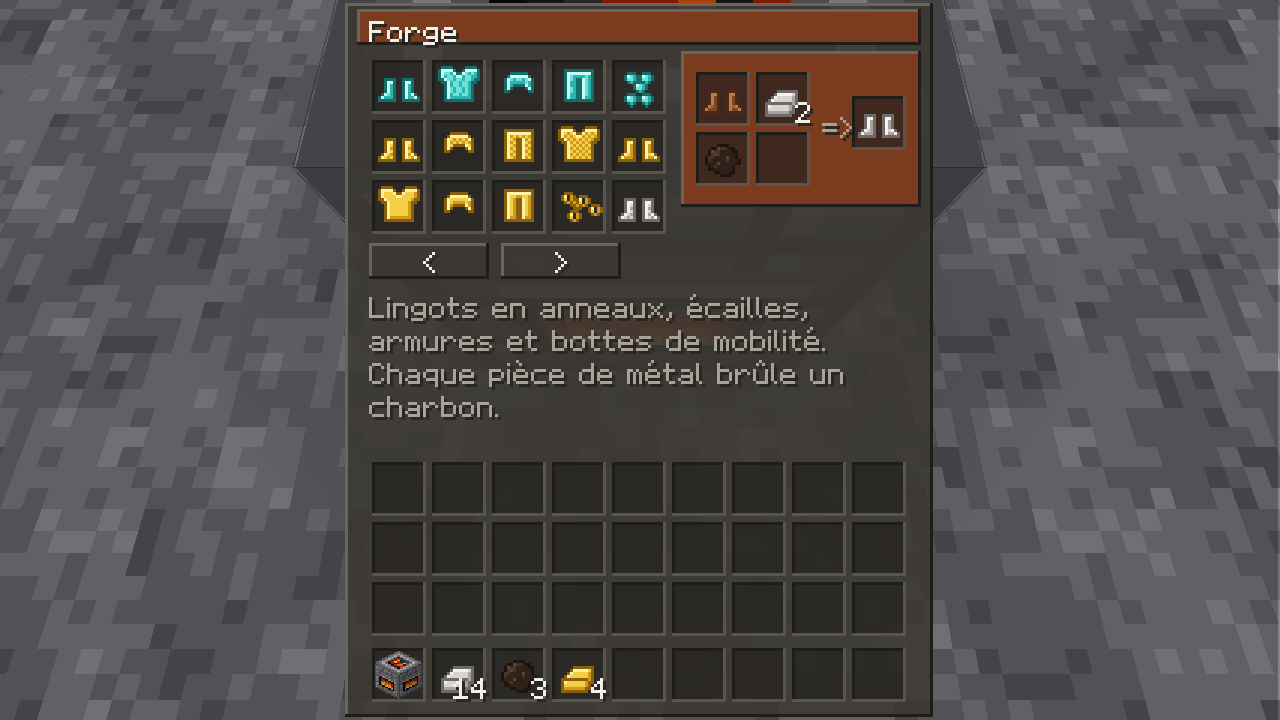
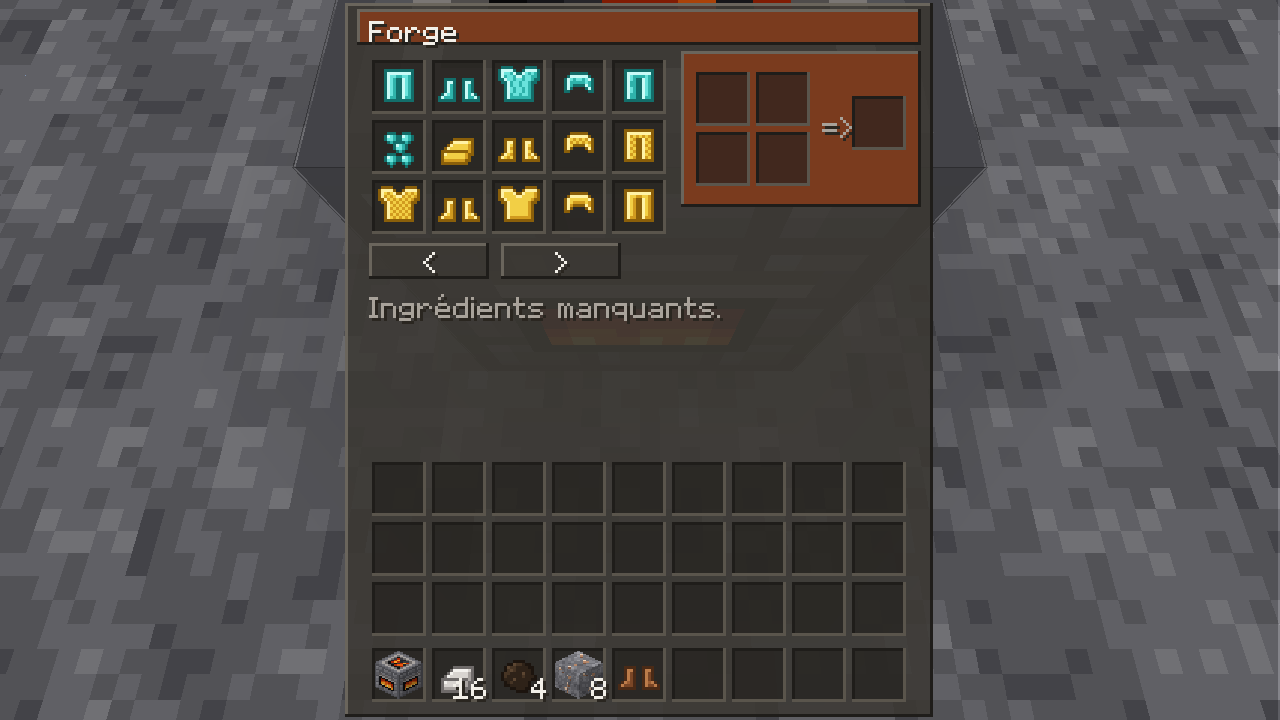
docs(stations): review fixes for J6 (layouts by name, forge ingots, old worlds, help, wiki), new bench captures
Claude-Session: https://claude.ai/code/session_01RznEhak9j1HUkMPKL5bSvG

diff --git a/docs/explications/stations.md b/docs/explications/stations.md
@@ -10,7 +10,7 @@ Chaque matériau se travaille à **sa** station : le bois et les outils à l'ét
 | Fours | entité de bloc `furnace` | cuisson et fonte, avec combustible |
 | Tailleur de pierre | `Stonecutter` | variantes de pierre |
 | Enclume | `Anvil` | améliorations, réparations |
-| Forge | `Bench("strata:forge")` | anneaux, écailles, armures de métal et de diamant, bottes de mobilité |
+| Forge | `Bench("strata:forge")` | lingots (depuis le minerai), anneaux, écailles, armures de métal et de diamant, bottes de mobilité |
 | Tannerie | `Bench("strata:tannery")` | cuir (provisoire), armure de cuir |
 | Métier à tisser | `Bench("strata:loom")` | tissu, laine (provisoire), vêtements de tissu, cape de laine |
 | Joaillier | `Bench("strata:jeweller")` | anneaux, amulettes, ceintures |
@@ -43,21 +43,26 @@ Choisir une recette envoie `ChooseCut` au serveur, qui pose les ingrédients de 
 
 La forge « brûle » du charbon sans mécanique nouvelle : le charbon est **un ingrédient comme un autre** (le tag `strata:coals`, charbon ou charbon de bois), un par pièce de métal. Pas de jauge de chaleur ni d'entité de bloc : tout est dans les recettes, réglable par pack. Les écailles de diamant se taillent sans feu.
 
+Elle fond aussi le minerai : 4 minerais et 1 charbon donnent **5 lingots**, tout de suite. C'est un quart de plus qu'au four, mais plus de charbon (1 pour 5 lingots au lieu de 1 pour 8) et à la main : le four reste la voie qu'on automatise.
+
 ### Un écran par station
 
 Chaque établi a son allure, décrite dans le pack :
 
 ```ron
 // benches/forge.ron
-Bench(layout: Forge, accent: "#7a3b1e")
+Bench(layout: "forge", accent: "#7a3b1e")
 ```
 
-- `layout` choisit une **disposition** parmi celles que l'écran d'inventaire connaît (`Plain`, `Jeweller`, `Forge`, `Tannery`, `Loom`). Dans `assets/ui/inventory.ron`, chacune est un groupe `bench_layout_<nom>` qui place autrement les mêmes éléments : cases (2×2, en ligne pour la tannerie comme des peaux sur un séchoir, en colonne pour le métier comme une chaîne de fils), liste, résultat, aide.
+- `layout` nomme une **disposition** : le groupe `bench_layout_<layout>` de `assets/ui/inventory.ron` (aujourd'hui `plain`, `jeweller`, `forge`, `tannery`, `loom`). Chacun place autrement les mêmes éléments : cases (2×2, en ligne pour la tannerie comme des peaux sur un séchoir, en colonne pour le métier comme une chaîne de fils), liste, résultat, aide. Au chargement, le client vérifie que le groupe existe ; sinon l'établi prend `plain` et une erreur de pack le signale.
+- **Les identifiants doivent être les mêmes dans toutes les dispositions** (`bench`, `bench_choices`, `bench_result`, `bench_note`, `bench_earlier`, `bench_later`, `bench_title`, bandes `bench_band_*`) : le modèle de l'écran répond par identifiant, sans savoir quelle disposition est affichée. Seules les positions changent ; la liste fait toujours 5 × 3 cases (un test le vérifie).
+- Un fichier `benches/` qui ne nomme l'établi d'aucun bloc est une erreur de pack ; `remove.ron` peut retirer une entrée `benches`.
 - `accent` colore les **bandes** (`Band`, un nouvel élément d'interface) : le bandeau du titre et la surface de travail sous les cases.
-- L'aide sous la liste est la traduction `bench-<espace>-<nom>` (sinon l'aide générale).
+- L'aide sous la liste est la traduction `bench-<espace>-<nom>` suivie de la phrase commune `ui-bench-choose` (sinon l'aide générale `ui-bench-help`).
+- L'infobulle de tout objet fait à un établi dit « Fabriqué à : Forge » (`gear-made-at`).
 - Sans fichier `benches/`, un établi prend la disposition `Plain` et les couleurs du thème : un pack peut ajouter un établi avec seulement un bloc et des recettes.
 
-La liste montre 5 × 3 recettes dans toutes les dispositions ; au-delà (la forge en a 29), les boutons « < » « > » et la molette la font défiler par rangées. À la manette, la croix passe d'un élément à l'autre comme partout.
+La liste montre 5 × 3 recettes dans toutes les dispositions ; au-delà (la forge en a 32), les boutons « < » « > » et la molette la font défiler par rangées. À la manette, la croix passe d'un élément à l'autre comme partout.
 
 ```mermaid
 flowchart LR
@@ -73,6 +78,8 @@ flowchart LR
 
 À l'établi : forge = 3 lingots de fer sur un four entouré de 5 galets ; tannerie = bâtons en cadre autour d'une boue sur 3 planches ; métier à tisser = 3 bâtons sur 3 fibres sur 3 planches. La tannerie et le métier sont connus dès le départ (le cuir et le tissu sont les premières armures) ; la forge s'apprend.
 
+**Anciens mondes** : une sauvegarde qui connaissait une recette de grille déplacée sur un établi sous le même nom (une armure de fer…) reçoit une fois le bloc de cet établi et apprend sa recette (`Game::adopt_moved_recipes`), pour ne pas perdre le moyen de la fabriquer.
+
 Le cuir et la laine restent **provisoires** (fibres et boue, fibres seules) jusqu'aux animaux de la v0.4 : leurs recettes sont déjà à la bonne station, il suffira d'en changer les ingrédients pour des peaux et de la laine de mouton.
 
 ## Dans le code
@@ -83,6 +90,8 @@ Le cuir et la laine restent **provisoires** (fibres et boue, fibres seules) jusq
 | Allure d'un établi (`benches/`) | `crates/core/src/crafting/bench_style.rs` |
 | Fenêtre côté serveur | `crates/server/src/game/bench.rs` |
 | Écran : disposition, couleur, aide, défilement | `crates/client/src/screens/bench.rs`, `assets/ui/inventory.ron` |
+| Vérification des dispositions au chargement | `UiAssets::check_bench_layouts` (`crates/client/src/ui/mod.rs`), appelée par `crates/app/src/content.rs` |
+| Anciens mondes | `adopt_moved_recipes` dans `crates/server/src/game/bench.rs` |
 | Élément `Band` | `crates/client/src/ui/def.rs`, `ui/widgets/mod.rs` |
 | Tests | `crates/core/tests/stations.rs`, `crafting/bench_tests.rs`, `crates/client/src/screens/bench_tests.rs`, `crates/server/src/game/equipment_tests.rs` |
 | Wiki (page « Stations de travail ») | `crates/wikigen/src/stations.rs` |
@@ -90,8 +99,8 @@ Le cuir et la laine restent **provisoires** (fibres et boue, fibres seules) jusq
 
 <details><summary>Côté Rust</summary>
 
-- **Un `enum` pour les dispositions** : `BenchLayout` est lu par serde ; une valeur inconnue (`layout: Spinning`) devient une erreur de pack, au lieu d'un écran vide. `BenchLayout::ALL` permet au test de vérifier que l'écran a un groupe pour chacune.
-- **`#[serde(default)]`** : `layout` et `accent` peuvent manquer ; `BenchStyle::default()` donne `Plain` et aucune couleur.
+- **`Option::take_if`** : `drop_layouts` retire une disposition de son `Option` seulement si le groupe manque, et rend ce qu'il a retiré pour l'erreur.
+- **`#[serde(default)]`** : `layout` et `accent` peuvent manquer ; `BenchStyle::PLAIN` (une `const`) donne `plain` et aucune couleur, et `style()` peut en rendre une référence.
 - **`Option::then` puis `flatten`** : `id.starts_with("bench_band").then(|| …accent).flatten()` ne cherche la couleur que pour les bandes.
 - **`strip_prefix`** : `id.strip_prefix("bench_layout_")` dit à la fois si l'id est une disposition et laquelle.
 - **`saturating_add_signed`** : faire défiler de −1 au début reste à 0 au lieu de déborder.

diff --git a/docs/decisions.md b/docs/decisions.md
@@ -749,14 +749,17 @@ Une entrée courte par décision : contexte, choix, alternatives écartées. Les
 
 - **Une station par matériau** : la forge fait les anneaux et écailles, toutes les armures de métal et de diamant (mailles, plates, écailles) et les bottes de mobilité (l'« armurier » de D089) ; la tannerie le cuir et l'armure de cuir ; le métier à tisser le tissu, la laine, les vêtements de tissu et la cape de laine (quittent le joaillier, qui garde anneaux, amulette, ceintures). Leurs anciennes recettes de grille sont supprimées : aucune armure ne se fait plus à l'établi. Les outils et armes restent à l'établi (coûts de Minecraft), l'amélioration et la réparation à l'enclume, la fonte aux fours.
 - Mêmes établis génériques que le joaillier (`Bench`, `bench_recipes/`), mêmes quantités que les formes de Minecraft (casque 5, plastron 8, jambières 7, bottes 4).
+- **Lingots à la forge** : 4 minerais (tag du métal, fer, or, cuivre) + 1 charbon → 5 lingots, instantané ; le four donne 1 lingot par minerai en 10 s et 8 cuissons par charbon. Avantage modéré (+25 %, sans attente) payé en charbon (1 pour 5 lingots) et en travail manuel : le four reste la voie automatisable.
 - **Charbon de la forge** : une pièce de métal (anneaux compris) prend un `Tag("strata:coals")` comme ingrédient ; pas de jauge de chaleur ni d'entité de bloc. Anneaux : 2 lingots + 1 charbon → 4 (au lieu de 1 → 2) pour que le charbon reste léger ; écailles de diamant : 1 diamant → 2, sans charbon (taille).
 - **Recettes des stations** à l'établi : forge (3 lingots de fer, four, 5 galets ; à apprendre), tannerie (4 bâtons, 1 boue, 3 planches) et métier à tisser (3 bâtons, 3 fibres, 3 planches) **connues au départ**, comme les premières armures.
 - Cuir (2 fibres + 1 boue) et laine (4 fibres) **restent provisoires** jusqu'aux animaux (v0.4), mais déjà à leur station : il suffira de changer les ingrédients pour des peaux.
+- **Anciens mondes** : une recette sauvegardée inconnue qui porte le nom d'une recette d'établi (les armures, anneaux, cuir, tissu… gardent leur identifiant) donne une fois le bloc de cet établi et apprend sa recette (`Game::adopt_moved_recipes`, au chargement) ; elle quitte alors la liste des recettes inconnues, donc le cadeau ne revient pas. Les autres restent gardées pour leur pack.
+- Infobulle « Fabriqué à : <station> » (`gear-made-at`) sur tout objet d'établi ; les recettes d'établi sont toutes connues, le jalon 13 y branchera le savoir.
 
 ## D092 — Un écran par établi : dispositions et couleur en pack (v0.3, jalon 6)
 
-- `benches/<nom>.ron` : `Bench(layout, accent)` (`crafting::BenchStyle`, gardé dans `Benches::style`, `Plain` et couleurs du thème sans fichier ; catégorie ajoutée à `remove.ron`). `layout` est un `enum` fermé (`Plain`, `Jeweller`, `Forge`, `Tannery`, `Loom`) : une valeur inconnue est une erreur de pack, jamais un écran vide. Les dispositions sont des groupes `bench_layout_<nom>` de `assets/ui/inventory.ron` (format interne jusqu'à la v1.1) ; un test vérifie que chacune a cases, liste 5×3, résultat, boutons de défilement et aide.
+- `benches/<nom>.ron` : `Bench(layout, accent)` (`crafting::BenchStyle`, gardé dans `Benches::style`, `plain` et couleurs du thème sans fichier ; catégorie ajoutée à `remove.ron` ; un fichier qui ne nomme l'établi d'aucun bloc est une erreur). `layout: Option<String>` nomme un groupe `bench_layout_<layout>` de `assets/ui/inventory.ron` (format interne jusqu'à la v1.1) : le client le vérifie au chargement (`UiAssets::check_bench_layouts`) et, s'il manque, l'établi prend `plain` avec une erreur de pack. Ainsi une disposition nouvelle ne demande qu'un groupe dans l'écran, pas de code. Les identifiants des éléments sont les mêmes dans toutes les dispositions ; un test vérifie que chacune (celles du pack et celles de l'écran) a cases, liste 5×3, résultat, boutons de défilement et aide.
 - Nouvel élément d'interface `Band` (bande biseautée de la couleur donnée par le modèle, `ScreenModel::color`) : bandeau de titre et surface de travail aux couleurs de l'établi.
-- Aide propre : traduction `bench-<espace>-<nom>` si elle existe, sinon `ui-bench-help` ; « Ingrédients manquants » quand le choix ne peut pas se faire.
-- **Liste qui défile** par rangées (5 × 3 visibles ; boutons « < » « > » et molette, comme l'enclume) : la forge a 29 recettes. Les indices restent ceux du serveur.
-- `SlotsModel::furnace_info` passe dans `station_lists.rs` (taille de `slots.rs`). Wiki : page mécanique « Stations de travail » (tableau de toutes les stations, icônes de ce que fait chaque établi), pages des trois blocs ; « Fabriqué à un atelier » remplace « Au joaillier ».
+- Aide propre : traduction `bench-<espace>-<nom>` suivie de la phrase commune `ui-bench-choose` si elle existe, sinon `ui-bench-help` ; « Ingrédients manquants » quand le choix ne peut pas se faire.
+- **Liste qui défile** par rangées (5 × 3 visibles ; boutons « < » « > » et molette, comme l'enclume) : la forge a 32 recettes. Les indices restent ceux du serveur.
+- `SlotsModel::furnace_info` passe dans `station_lists.rs` (taille de `slots.rs`). Wiki : page mécanique « Stations de travail » (tableau de toutes les stations, fours compris, icônes de ce que fait chaque établi), pages des trois blocs ; « Fabriqué à un atelier » remplace « Au joaillier ».

diff --git a/wiki-content/fr/mechanics/stations.md b/wiki-content/fr/mechanics/stations.md
@@ -5,7 +5,7 @@ Chaque matériau se travaille à sa **station de travail** : un bloc qu'on pose,
 - **Établi** : la grille 3×3 de fabrication (outils, armes, blocs, stations).
 - **Fours** (four, fumoir, haut fourneau) : la cuisson et la fonte des minerais en lingots, avec du combustible.
 - **Tailleur de pierre** : les variantes de pierre, une à une.
-- **Forge** : les lingots deviennent anneaux de mailles, plates d'armure et bottes de mobilité ; chaque pièce de métal brûle un charbon. Le diamant s'y taille en écailles.
+- **Forge** : 4 minerais et 1 charbon y font 5 lingots, tout de suite ; les lingots deviennent anneaux de mailles, plates d'armure et bottes de mobilité ; chaque pièce de métal brûle un charbon. Le diamant s'y taille en écailles.
 - **Tannerie** : le cuir et les pièces d'armure en cuir.
 - **Métier à tisser** : le tissu, la laine, les vêtements de tissu et la cape de laine.
 - **Joaillier** : anneaux, amulettes et ceintures.
@@ -17,4 +17,4 @@ La forge, la tannerie, le métier à tisser et le joaillier marchent de la même
 
 ## Pour les créateurs de packs
 
-Un bloc `station: Some(Bench("monpack:atelier"))`, des recettes `bench_recipes/<nom>.ron` (`BenchRecipe(bench, ingredients: [(Item(..), n)…], result)`, une à quatre sortes d'ingrédients) et, si l'on veut, l'allure de son écran dans `benches/<nom>.ron` : `Bench(layout: Forge, accent: "#7a3b1e")` (dispositions : `Plain`, `Jeweller`, `Forge`, `Tannery`, `Loom`). L'aide de l'écran est la traduction `bench-<espace>-<nom>`.
+Un bloc `station: Some(Bench("monpack:atelier"))`, des recettes `bench_recipes/<nom>.ron` (`BenchRecipe(bench, ingredients: [(Item(..), n)…], result)`, une à quatre sortes d'ingrédients) et, si l'on veut, l'allure de son écran dans `benches/<nom>.ron` : `Bench(layout: "forge", accent: "#7a3b1e")` (la disposition nomme un groupe `bench_layout_<nom>` de l'écran d'inventaire : `plain`, `jeweller`, `forge`, `tannery`, `loom` ; inconnue, l'établi prend `plain` et une erreur le signale). L'aide de l'écran est la traduction `bench-<espace>-<nom>`.

diff --git a/wiki-content/en/mechanics/stations.md b/wiki-content/en/mechanics/stations.md
@@ -5,7 +5,7 @@ Each material is worked at its **work station**: a block you place, then open wi
 - **Crafting table**: the 3×3 crafting grid (tools, weapons, blocks, stations).
 - **Furnaces** (furnace, smoker, blast furnace): cooking and smelting ores into ingots, with fuel.
 - **Stonecutter**: stone variants, one by one.
-- **Forge**: ingots become mail rings, armour plates and mobility boots; each metal piece burns one coal. Diamonds are cut into scales there.
+- **Forge**: 4 ores and 1 coal make 5 ingots there, at once; ingots become mail rings, armour plates and mobility boots; each metal piece burns one coal. Diamonds are cut into scales there.
 - **Tannery**: leather and leather armour.
 - **Loom**: cloth, wool, cloth clothing and the wool cloak.
 - **Jeweller**: rings, amulets and belts.
@@ -17,4 +17,4 @@ The forge, the tannery, the loom and the jeweller work the same way: a **list** 
 
 ## For pack makers
 
-A block `station: Some(Bench("mypack:bench"))`, recipes `bench_recipes/<name>.ron` (`BenchRecipe(bench, ingredients: [(Item(..), n)…], result)`, one to four kinds of ingredients) and, if wanted, the look of its screen in `benches/<name>.ron`: `Bench(layout: Forge, accent: "#7a3b1e")` (arrangements: `Plain`, `Jeweller`, `Forge`, `Tannery`, `Loom`). The screen's help is the translation `bench-<namespace>-<name>`.
+A block `station: Some(Bench("mypack:bench"))`, recipes `bench_recipes/<name>.ron` (`BenchRecipe(bench, ingredients: [(Item(..), n)…], result)`, one to four kinds of ingredients) and, if wanted, the look of its screen in `benches/<name>.ron`: `Bench(layout: "forge", accent: "#7a3b1e")` (the layout names a group `bench_layout_<name>` of the inventory screen: `plain`, `jeweller`, `forge`, `tannery`, `loom`; an unknown one gives `plain` and an error). The screen's help is the translation `bench-<namespace>-<name>`.

diff --git a/wiki-content/lol/mechanics/stations.md b/wiki-content/lol/mechanics/stations.md
@@ -5,7 +5,7 @@ EVRY STUFF GETZ WERKD AT ITS **WERKIN BLOK**: PUT IT DOWN, RITE CLIK 2 OPEN.
 - **CRAFTIN TABUL**: 3×3 SQUAREZ (TOOLZ, POKEYZ, BLOKZ, WERKIN BLOKZ).
 - **HOT BOXEZ**: COOKIN AN MELTIN ROCKZ IN2 BARZ, WIF FUEL.
 - **ROCK CHOPPR**: ROCK SHAPEZ, 1 BY 1.
-- **HOT BANGR**: BARZ BECOM CLINKY LOOPZ, PLAETZ AN JUMPY BOOTZ; EVRY METUL PIECE EATZ 1 COAL. SHINY GETZ CUT IN SKALEZ.
+- **HOT BANGR**: 4 ROCKZ + 1 COAL = 5 BARZ, NAO; BARZ BECOM CLINKY LOOPZ, PLAETZ AN JUMPY BOOTZ; EVRY METUL PIECE EATZ 1 COAL. SHINY GETZ CUT IN SKALEZ.
 - **SKIN RACK**: LETHR AN LETHR CLOVEZ.
 - **STRING WEEVR**: CLOFF, FLUFF, CLOFF CLOVEZ AN FLOOF CAPE.
 - **SHINY MAEKR**: LOOPZ, NECK SHINYZ AN BELTZ.
@@ -17,4 +17,4 @@ HOT BANGR, SKIN RACK, STRING WEEVR AN SHINY MAEKR WERK SAEM: A **LIST**, **4 SPO
 
 ## 4 PACK MAKERZ
 
-BLOK `station: Some(Bench("mypack:bench"))`, RECIPEZ `bench_recipes/<name>.ron` AN MAYBE `benches/<name>.ron`: `Bench(layout: Forge, accent: "#7a3b1e")` (`Plain`, `Jeweller`, `Forge`, `Tannery`, `Loom`). HALP IZ TRANSLAYSHUN `bench-<namespace>-<name>`.
+BLOK `station: Some(Bench("mypack:bench"))`, RECIPEZ `bench_recipes/<name>.ron` AN MAYBE `benches/<name>.ron`: `Bench(layout: "forge", accent: "#7a3b1e")` (`plain`, `jeweller`, `forge`, `tannery`, `loom`). HALP IZ TRANSLAYSHUN `bench-<namespace>-<name>`.

diff --git a/docs/regles/equilibrage.md b/docs/regles/equilibrage.md
@@ -239,7 +239,7 @@ Chaque matériau a sa station ; aucune armure ne se fait à l'établi. Valeurs d
 
 | Station | Recettes | Coût particulier |
 |---|---|---|
-| Forge (29) | anneaux de fer et d'or, écailles de diamant ; mailles de fer et d'or, plates de fer, d'or et de diamant, écailles de diamant (4 pièces chacune) ; bottes de saut et à crampons | 1 charbon (ou charbon de bois) par pièce de métal ; pas pour les écailles |
+| Forge (32) | lingots de fer, d'or et de cuivre (4 minerais + 1 charbon → 5, instantané ; le four : 1 → 1 en 10 s, 8 par charbon) ; anneaux de fer et d'or, écailles de diamant ; mailles de fer et d'or, plates de fer, d'or et de diamant, écailles de diamant (4 pièces chacune) ; bottes de saut et à crampons | 1 charbon (ou charbon de bois) par pièce de métal ; pas pour les écailles |
 | Tannerie (5) | cuir (provisoire : 2 fibres + 1 boue), casque, tunique, pantalon, bottes en cuir | — |
 | Métier à tisser (7) | tissu (3 fibres), laine (provisoire : 4 fibres), capuche, tunique, pantalon, chaussures en tissu, cape de laine | — |
 | Joaillier (4) | anneau de vitalité, amulette de respiration courte, ceinture à fioles, ceinture de course | — |

diff --git a/docs/explications/accessoires-et-sets.md b/docs/explications/accessoires-et-sets.md
@@ -94,7 +94,7 @@ L'écran liste tout ce que l'établi sait faire ; l'infobulle donne les ingrédi
 | Ensembles, calcul, textes, `mobility.ron` | `crates/core/src/worn/` |
 | Non-cumul des briques | `strongest_bricks` dans `crates/core/src/upgrade/stats.rs` |
 | Double saut, esquive, escalade | `crates/core/src/physics/abilities.rs` |
-| Établis à liste (joaillier) | `crates/core/src/crafting/bench.rs`, `bench_load.rs`, `crates/server/src/game/bench.rs`, `crates/client/src/screens/bench.rs` |
+| Établis à liste (joaillier, forge, tannerie, métier à tisser : voir [Stations de travail](stations.md)) | `crates/core/src/crafting/bench.rs`, `bench_load.rs`, `bench_style.rs`, `crates/server/src/game/bench.rs`, `crates/client/src/screens/bench.rs` |
 | Équipement côté serveur | `crates/server/src/game/equipment.rs` |
 | Prédiction côté client | `advance_player` dans `crates/client/src/gameplay.rs`, `LocalPlayer` |
 | Wiki | `crates/wikigen/src/worn.rs` |

diff --git a/docs/explications/outils-et-armures.md b/docs/explications/outils-et-armures.md
@@ -89,7 +89,7 @@ La barre sous chaque case montre la part restante (aussi dans la barre rapide du
 
 ### Les matériaux provisoires
 
-Les hautes herbes et les fougères coupées sans cisailles donnent parfois une **fibre végétale** (une chance sur quatre). Trois fibres font un **tissu**. Le **cuir** n'a pas encore d'animal : en attendant la v0.4, une recette provisoire (deux fibres et une boue) le fabrique.
+Les hautes herbes et les fougères coupées sans cisailles donnent parfois une **fibre végétale** (une chance sur quatre). Trois fibres font un **tissu**, au métier à tisser. Le **cuir** n'a pas encore d'animal : en attendant la v0.4, une recette provisoire de la tannerie (deux fibres et une boue) le fabrique. Les armures se font à la station de leur matériau (forge, tannerie, métier à tisser) : voir [Stations de travail](stations.md).
 
 ### Le rendu
 

diff --git a/wiki-content/fr/blocks/strata/forge.md b/wiki-content/fr/blocks/strata/forge.md
@@ -12,7 +12,7 @@ Clic droit pour l'ouvrir. À gauche, la liste de tout ce que la forge sait faire
 
 ## Comportement
 
-Chaque pièce de métal **brûle un charbon** (ou un charbon de bois), compté comme un ingrédient. Les écailles de diamant se taillent sans feu. En fermant l'écran, les objets posés reviennent dans l'inventaire.
+Elle fond aussi le minerai : **4 minerais et 1 charbon donnent 5 lingots**, tout de suite (un quart de plus qu'au four, mais plus de charbon, et à la main). Chaque pièce de métal **brûle un charbon** (ou un charbon de bois), compté comme un ingrédient. Les écailles de diamant se taillent sans feu. En fermant l'écran, les objets posés reviennent dans l'inventaire.
 
 ## Conseils
 

diff --git a/wiki-content/en/blocks/strata/forge.md b/wiki-content/en/blocks/strata/forge.md
@@ -12,7 +12,7 @@ Right click to open it. On the left, the list of everything the forge can make (
 
 ## Behaviour
 
-Each metal piece **burns one coal** (or charcoal), counted as an ingredient. Diamond scales are cut without fire. Closing the screen gives the items laid back.
+It also smelts ore: **4 ores and 1 coal give 5 ingots**, at once (a quarter more than the furnace, but more coal, and by hand). Each metal piece **burns one coal** (or charcoal), counted as an ingredient. Diamond scales are cut without fire. Closing the screen gives the items laid back.
 
 ## Tips
 

diff --git a/wiki-content/lol/blocks/strata/forge.md b/wiki-content/lol/blocks/strata/forge.md
@@ -12,7 +12,7 @@ RITE CLIK 2 OPEN. LEFT: LIST OV ALL IT MAEKZ ("<" ">" OR WHEEL WEN 2 LONG). RITE
 
 ## HOW IT ACTZ
 
-EVRY METUL PIECE **EATZ 1 COAL**. SHINY SKALEZ NO NEED FIER. CLOSIN GIVZ STUFFZ BAK.
+IT MELTZ ROCKZ 2: **4 ROCKZ + 1 COAL = 5 BARZ**, NAO. EVRY METUL PIECE **EATZ 1 COAL**. SHINY SKALEZ NO NEED FIER. CLOSIN GIVZ STUFFZ BAK.
 
 ## PRO TIPZ
 
